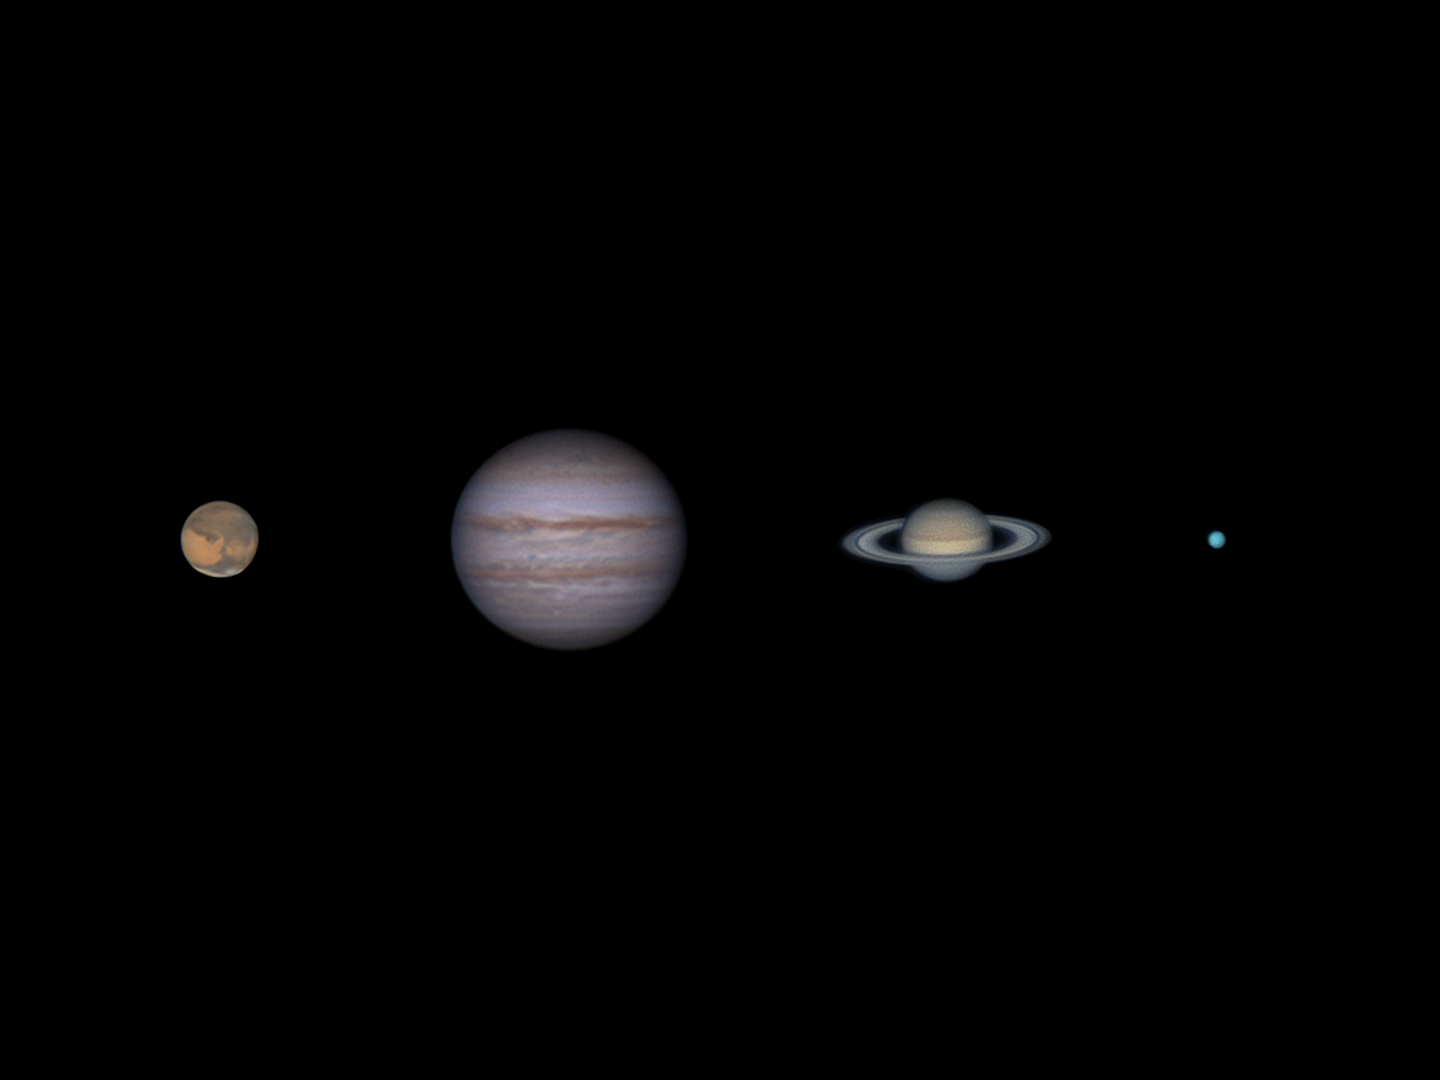
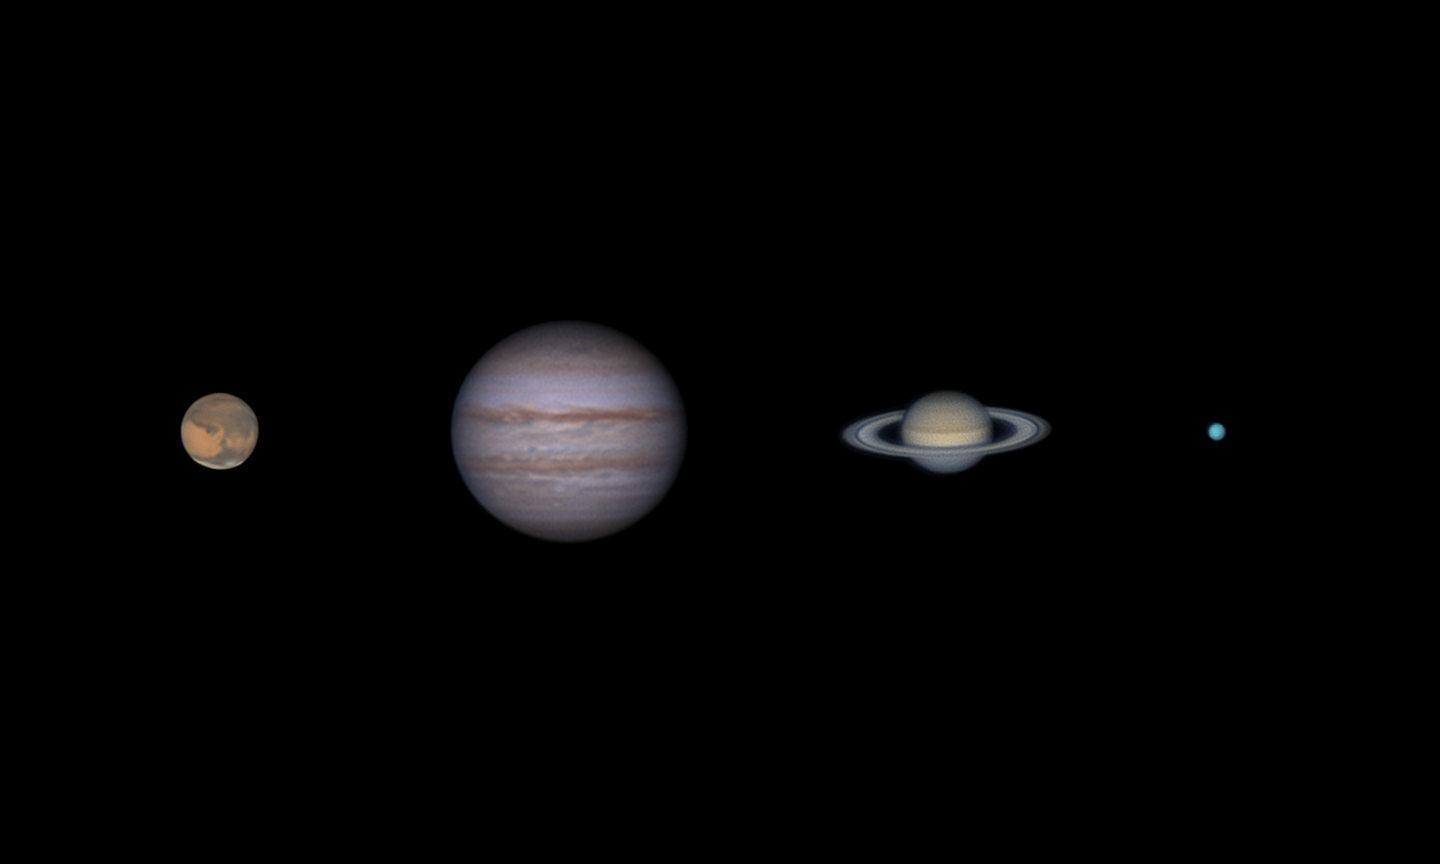
Changed planets-2022 dimensions, updated README

diff --git a/README.md b/README.md
@@ -4,11 +4,20 @@ Hey there! I'm currently an undergraduate student at Swinburne University of Tec
 ## About me:
 * 🌍 Born and raised in Melbourne, Australia
 * 💻 Currently building my skills in C and C++
-* 🛠 Passionate about engineering, astronomy, physics, and science communication
+* 🛠 Passionate about engineering, astronomy, physics, and science communication
 * 🪐 Amateur astrophotographer, primarily focused on the planets and their moons
 * 🍛 Love both cooking and baking (especially when I've got the time!)
 
+<hr></hr>
+
+<center>
+<img src="https://raw.githubusercontent.com/jaredlandau/astroDR8/main/2022-12-19-1310_3-U-RGB-Mars_pipp_lapl6_ap68_WD_pipp_defieldrotated.gif" alt="drawing" width="250"/>
+<p><i>~1hr timelapse of Mars' rotation, captured on the 20th of December, 2022.</i></p>
+<img src="https://raw.githubusercontent.com/jaredlandau/jaredlandau/main/planets-2022.png" alt="drawing" width="750"/>
+<p><i>Compilation of my best planetary images taken during 2022 - apparent sizes are to scale.</i></p>
+</center>
+
 ## 📫  Reach me on:
-<div align="center"> 
+<div align="center">
   <a href = "mailto:jaredlandau@gmail.com"><img src="https://img.shields.io/badge/-Gmail-%23333?style=for-the-badge&logo=gmail&logoColor=white" target="_blank"></a>
   <a href="https://www.linkedin.com/in/jared-landau/" target="_blank"><img src="https://img.shields.io/badge/-LinkedIn-%230077B5?style=for-the-badge&logo=linkedin&logoColor=white" target="_blank"></a> 
